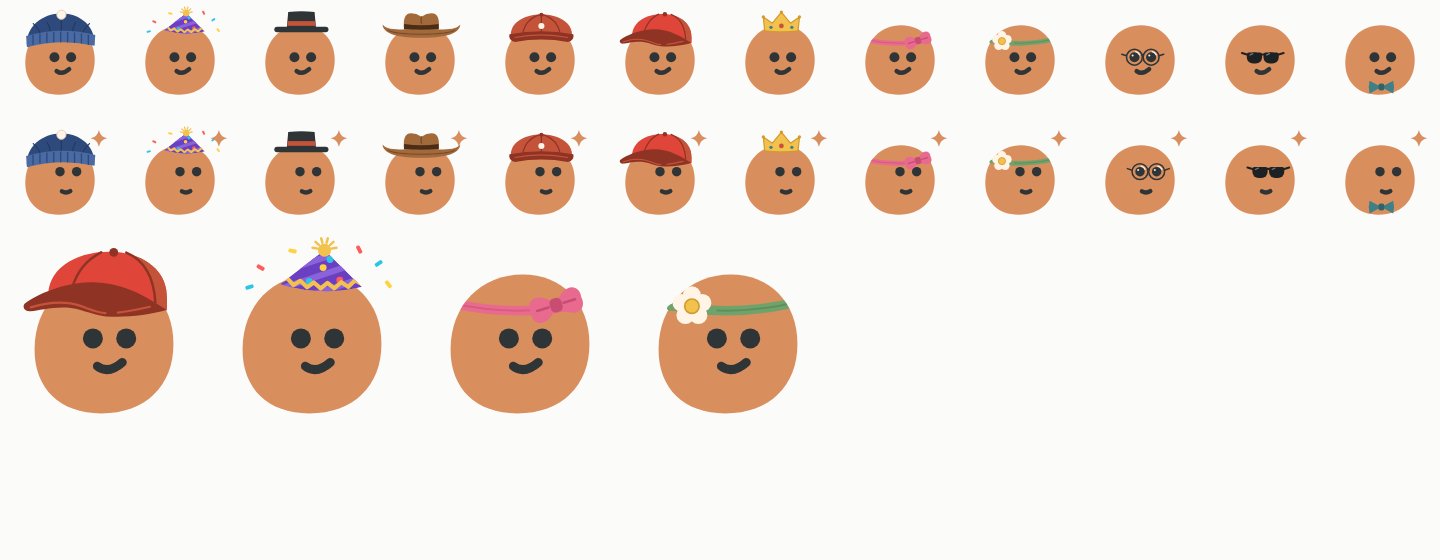
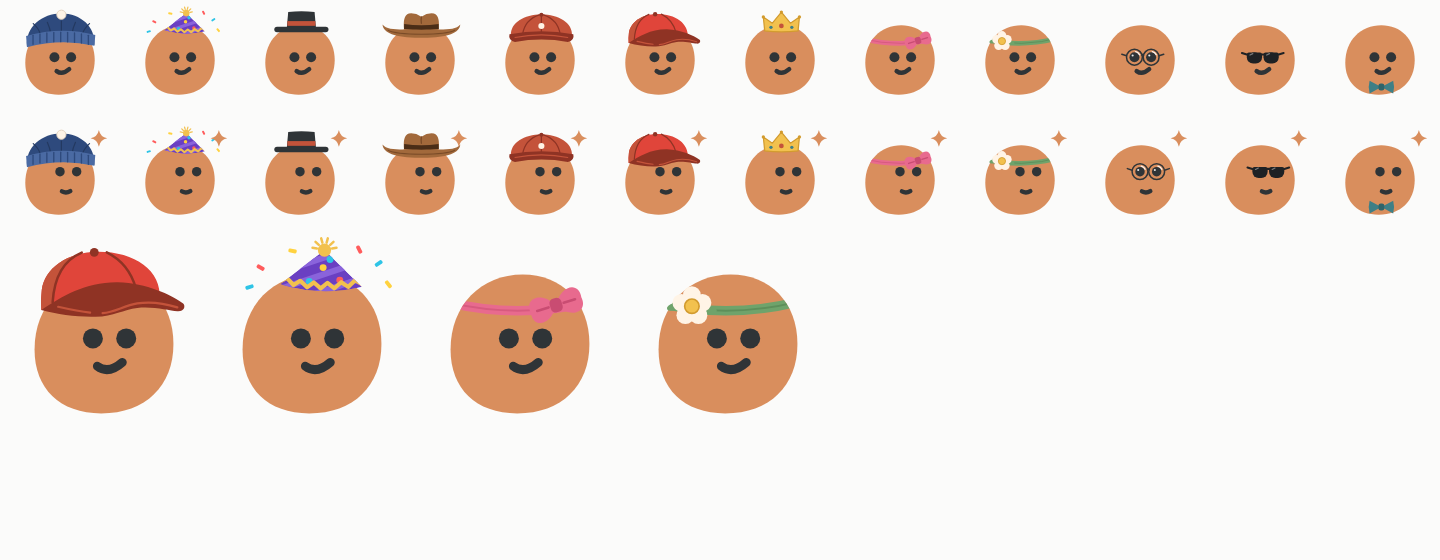
feat(porty): gorrita con la visera hacia la derecha
Claude-Session: https://claude.ai/code/session_014X6FgJPz2fjdo9EZLy7TFG

Changed region(s): [[0.0, 0.425, 0.125, 0.5768], [0.4375, 0.0, 0.5, 0.0911], [0.4375, 0.2429, 0.5, 0.3036]]

diff --git a/lib/features/assistant/view/widgets/porty_accessory_painter.dart b/lib/features/assistant/view/widgets/porty_accessory_painter.dart
@@ -65,7 +65,15 @@ abstract final class PortyAccessoryPainter {
       case PortyAccessory.cap:
         _cap(canvas);
       case PortyAccessory.peakedCap:
+        // Dibujada mirando a la izquierda y espejada sobre el eje de la
+        // cabeza (x = 32): la visera apunta a la derecha. El contorno de la
+        // cabeza es casi simétrico, así que la copa sigue apoyada.
+        canvas
+          ..save()
+          ..translate(64, 0)
+          ..scale(-1, 1);
         _peakedCap(canvas);
+        canvas.restore();
       case PortyAccessory.crown:
         _crown(canvas);
       case PortyAccessory.bow:
@@ -330,8 +338,8 @@ abstract final class PortyAccessoryPainter {
         ..close();
 
   /// Gorrita de tres cuartos (como una gorra de béisbol dibujada): copa
-  /// en gajos girada un poco a la derecha y una visera larga y curva que
-  /// sale hacia adelante a la izquierda, con el borde de abajo en "S".
+  /// en gajos y una visera larga y curva con el borde de abajo en "S".
+  /// Se dibuja con la visera a la izquierda; `paintBody` la espeja.
   static void _peakedCap(Canvas canvas) {
     // El costado derecho sigue el contorno de la cabeza (apenas por
     // fuera) hasta donde termina la visera: sin huecos en la esquina.
